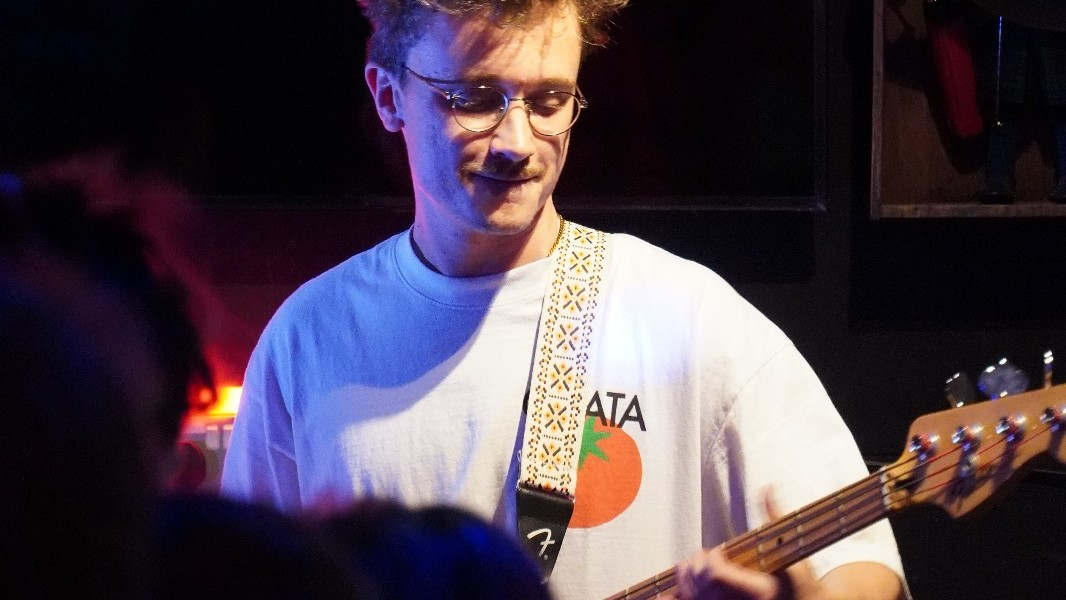
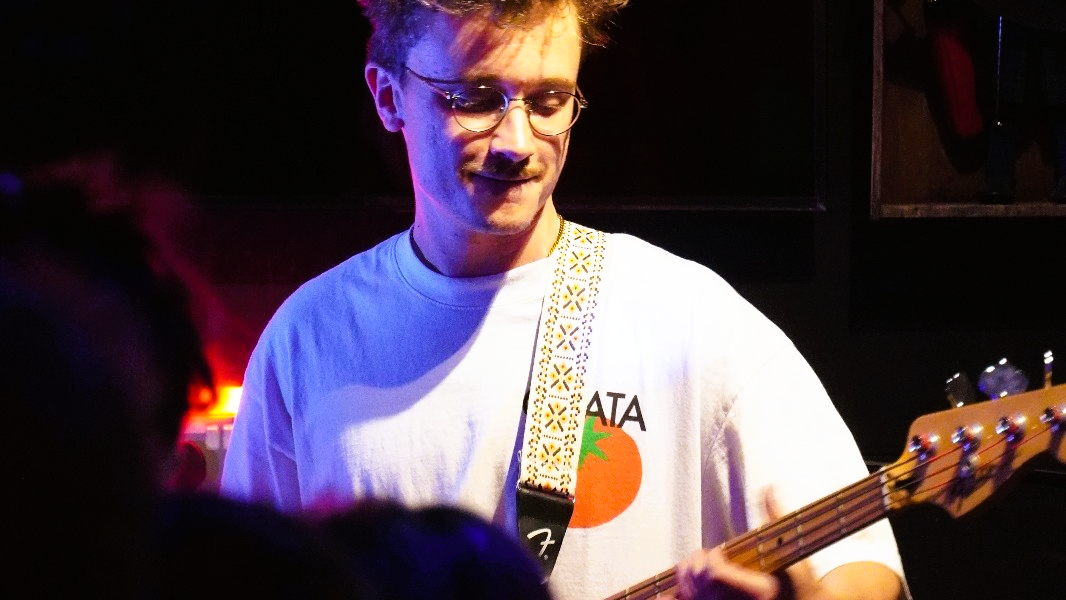
Add files via upload

diff --git a/index.html b/index.html
@@ -14,7 +14,7 @@
   </div>
   <div class="window-body">
     <p>Welcome to the official Dusty Moquette website. Event links below:</p>
-	<!-- ✅ GIG LINKS WITH BACKGROUND -->
+	<!-- GIG LINKS WITH BACKGROUND -->
     <div class="gig-links-container">
       <div class="gig-links-inline">
         <a href="https://bit.ly/dustymoquette"'/
@@ -22,6 +22,25 @@
       </div>
 	</div>  
 </div>
+</div>
+
+<div class="window">
+  <div class="title-bar">
+    <div class="title-bar-text">Listen to our Live Set from The Camden Club!</div>
+  </div>
+  <div class="window-body media-player-body">
+
+    <!-- SoundCloud Embed -->
+    <iframe 
+      width="100%" 
+      height="166" 
+      scrolling="no" 
+      frameborder="2" 
+      allow="autoplay" 
+      src="https://soundcloud.com/user-959567064/dusty-moquette-camden-club-28?utm_source=clipboard&utm_medium=text&utm_campaign=social_sharing">
+    </iframe>
+
+  </div>
 </div>
 
 <div class="window">

diff --git a/style.css b/style.css
@@ -197,5 +197,3 @@ body {
   position: relative;
   z-index: 1; /* keeps buttons above overlay */
 }
-
-
